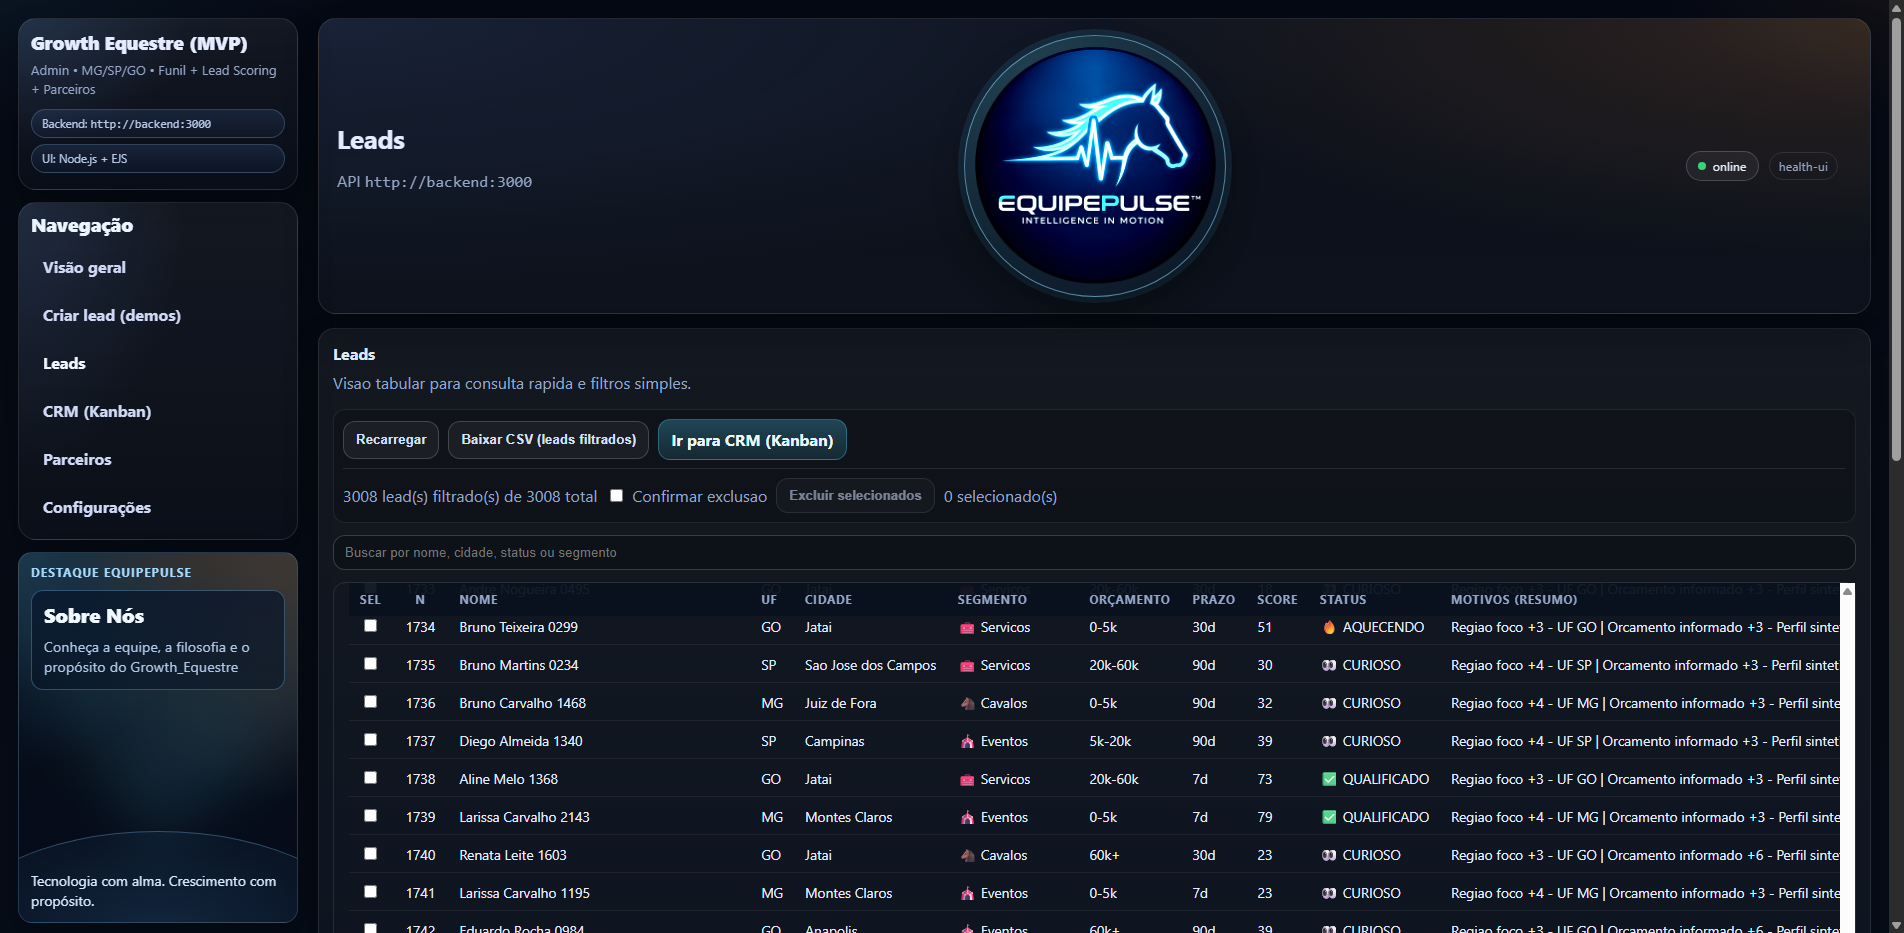
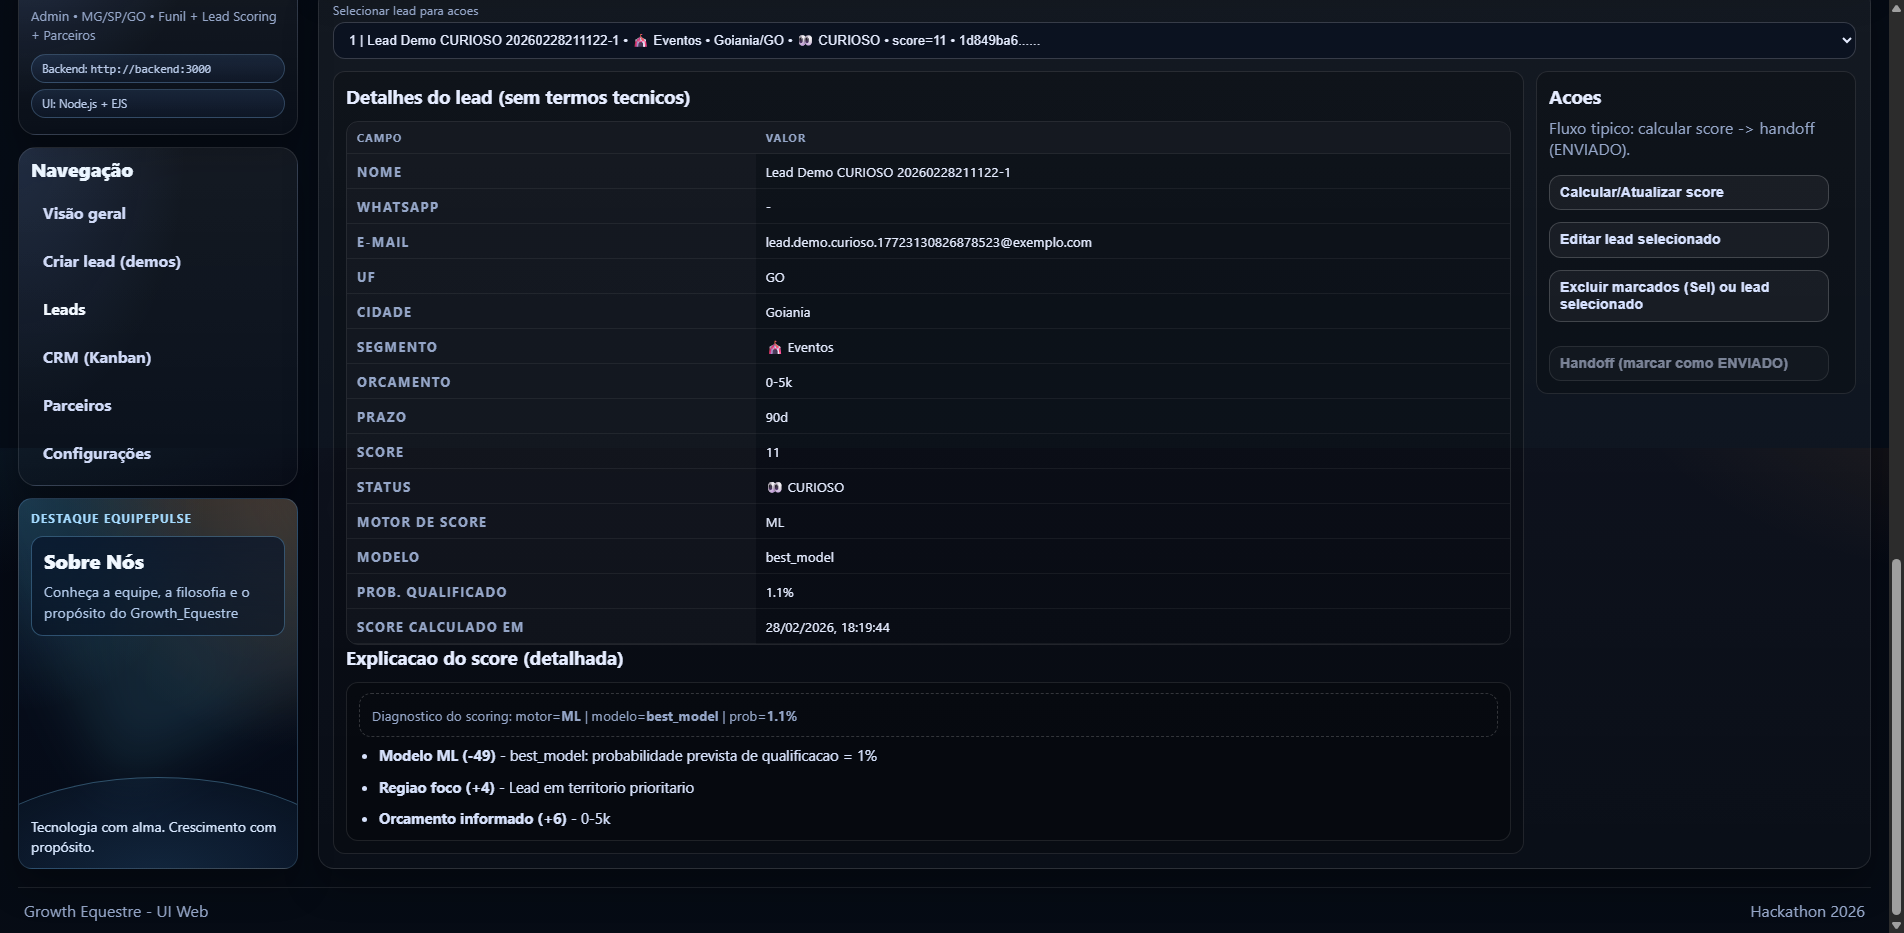
docs(readme): corrige evidencias de rolagem da secao 8.2.3 (conteudo inferior)

diff --git a/tools/docs/capture_ui_core_screens.py b/tools/docs/capture_ui_core_screens.py
@@ -211,21 +211,32 @@ def capture_settings_retrain_result(driver: webdriver.Chrome, wait: WebDriverWai
 
 def capture_leads_scroll_evidence(driver: webdriver.Chrome, wait: WebDriverWait) -> None:
     wait.until(ec.presence_of_element_located((By.CSS_SELECTOR, "#leadsTable table tbody tr")))
-    driver.execute_script("const t=document.getElementById('leadsTable'); if(t){t.scrollTop=0;}")
+    driver.execute_script(
+        "window.scrollTo(0, 0);"
+        "const t=document.getElementById('leadsTable');"
+        "if(t){t.scrollTop=0;}"
+    )
     time.sleep(0.35)
     capture_viewport_png(driver, PNG_LEADS_SCROLL_1)
 
-    max_scroll = int(
-        driver.execute_script(
-            "const t=document.getElementById('leadsTable');"
-            "if(!t) return 0;"
-            "return Math.max(t.scrollHeight - t.clientHeight, 0);"
-        )
-        or 0
+    # Select first lead and scroll page to the lower action/diagnostic block.
+    selected = driver.execute_script(
+        """
+        const sel = document.getElementById('leadActionSelect');
+        if (!sel) return false;
+        const first = [...sel.options].find((o) => (o.value || '').trim());
+        if (!first) return false;
+        sel.value = first.value;
+        sel.dispatchEvent(new Event('change', { bubbles: true }));
+        return true;
+        """
     )
-    target = int(max_scroll * 0.58) if max_scroll > 0 else 0
-    driver.execute_script("const t=document.getElementById('leadsTable'); if(t){t.scrollTop=arguments[0];}", target)
-    time.sleep(0.35)
+    if selected:
+        wait.until(ec.presence_of_element_located((By.CSS_SELECTOR, "#leadDetailWrap table")))
+    action_card = driver.find_element(By.CSS_SELECTOR, ".lead-actions-card")
+    driver.execute_script("arguments[0].scrollIntoView({block: 'start'});", action_card)
+    driver.execute_script("window.scrollBy(0, 110);")
+    time.sleep(0.4)
     capture_viewport_png(driver, PNG_LEADS_SCROLL_2)
 
 

diff --git a/README.md b/README.md
@@ -380,10 +380,17 @@ Também inclui barra de ações posicionada acima da busca para operação rápi
 
 ![Node.js - Leads](docs/readme_images/ui-leads.png)
 
-Evidencias de rolagem vertical da janela da tabela (20 registros visiveis por vez):
+Evidencias de rolagem vertical da pagina (topo da guia -> bloco inferior de Acoes e Diagnostico):
 
 ![Node.js - Leads (rolagem 1)](docs/readme_images/ui-leads-rolagem-1.png)
 ![Node.js - Leads (rolagem 2)](docs/readme_images/ui-leads-rolagem-2.png)
+
+Como interpretar o conteudo inferior da guia (Acoes e Diagnostico):
+- **Selecionar lead para acoes**: define o registro alvo para operar sem ambiguidade.
+- **Detalhes do lead**: mostra cadastro consolidado (dados de contato, segmento, score, status, motor/modelo e probabilidade).
+- **Explicacao do score**: lista fatores e impactos para justificar prioridade comercial.
+- **Acoes**: executa fluxo operacional (`Calcular/Atualizar score`, edicao, exclusao e `Handoff` para `ENVIADO`).
+- **Avisos e KPIs de acao**: confirmam resultado da ultima operacao e ajudam na validacao rapida do estado do lead.
 
 [![Voltar ao Indice](https://img.shields.io/badge/%E2%AC%86%EF%B8%8F-Voltar%20ao%20%C3%8Dndice-0b5fff?style=for-the-badge)](#indice)
 
